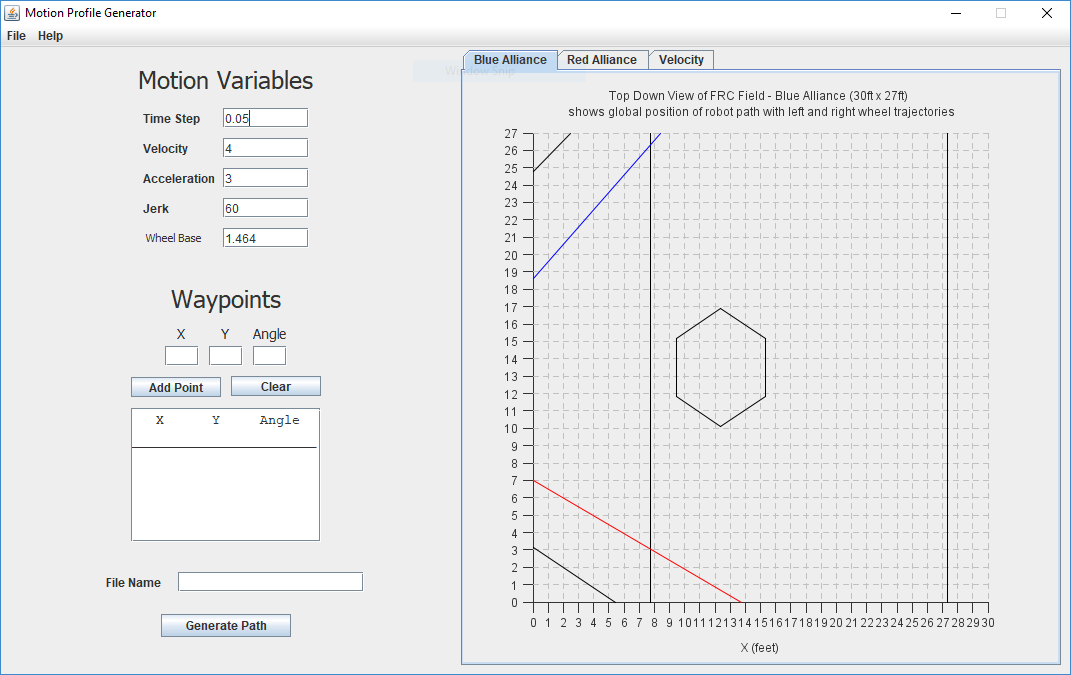
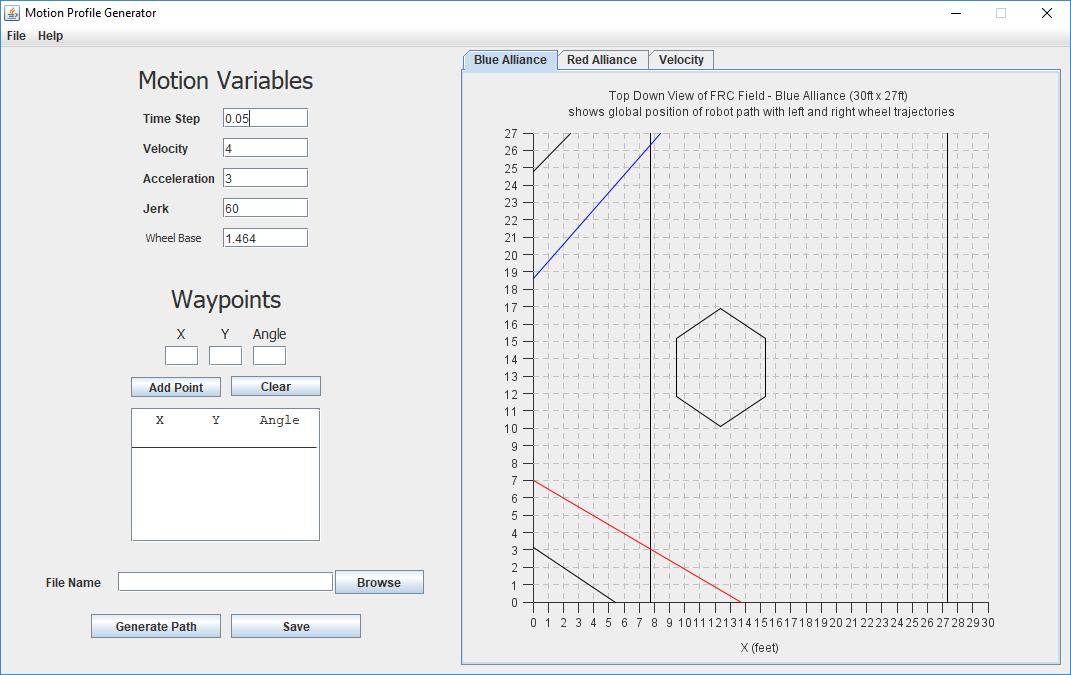
Update Readme and changelog

Changed region(s): [[0.0924, 0.9022, 0.3389, 0.9644], [0.3081, 0.84, 0.4006, 0.9022], [0.0308, 0.84, 0.1541, 0.8711]]

diff --git a/README.md b/README.md
@@ -45,8 +45,9 @@ Generate Motion Profiles to follow with a Talon SRX
 
 [logo1]: https://github.com/vannaka/Motion_Profile_Generator/blob/master/images/ChooseDirectory.PNG
 
-- Click "File/Save Profile" and the Directory window will appear
-- Choose the directory you want to save your motion profiles in then click open and they will be saved
+- Enter the file name in the File Name text box
+- Click the Browse button to choose the directory you want to save the profiles in
+- Click the Save button or the "File/Save Profile" Menu option to save the profiles
 - The motion profiles are saved as CSV files. One for each left and right
 	- Detailed CSV
 		- This file contains more information than the normal CSV
@@ -66,7 +67,7 @@ Generate Motion Profiles to follow with a Talon SRX
 	- New Profile
 		- Clears all your waypoints and graphs allowing you to start over
 	- Save Profile
-		- The directory chooser is brought up allowing you to save your profiles
+		- Allows you to save your profiles
 	- Exit
 		- Exit the application
 - **Help Menu**

diff --git a/CHANGELOG.md b/CHANGELOG.md
@@ -7,6 +7,7 @@ and this project adheres to [Semantic Versioning](http://semver.org/spec/v2.0.0.
 ## [Unreleased]
 ### Changed
 - Moved Velocity Graph to the tabbed pane
+- Reworked Saving UX to make it more user friendly
 
 ### Fixed
 - Resized menu bar to extend across entire window
